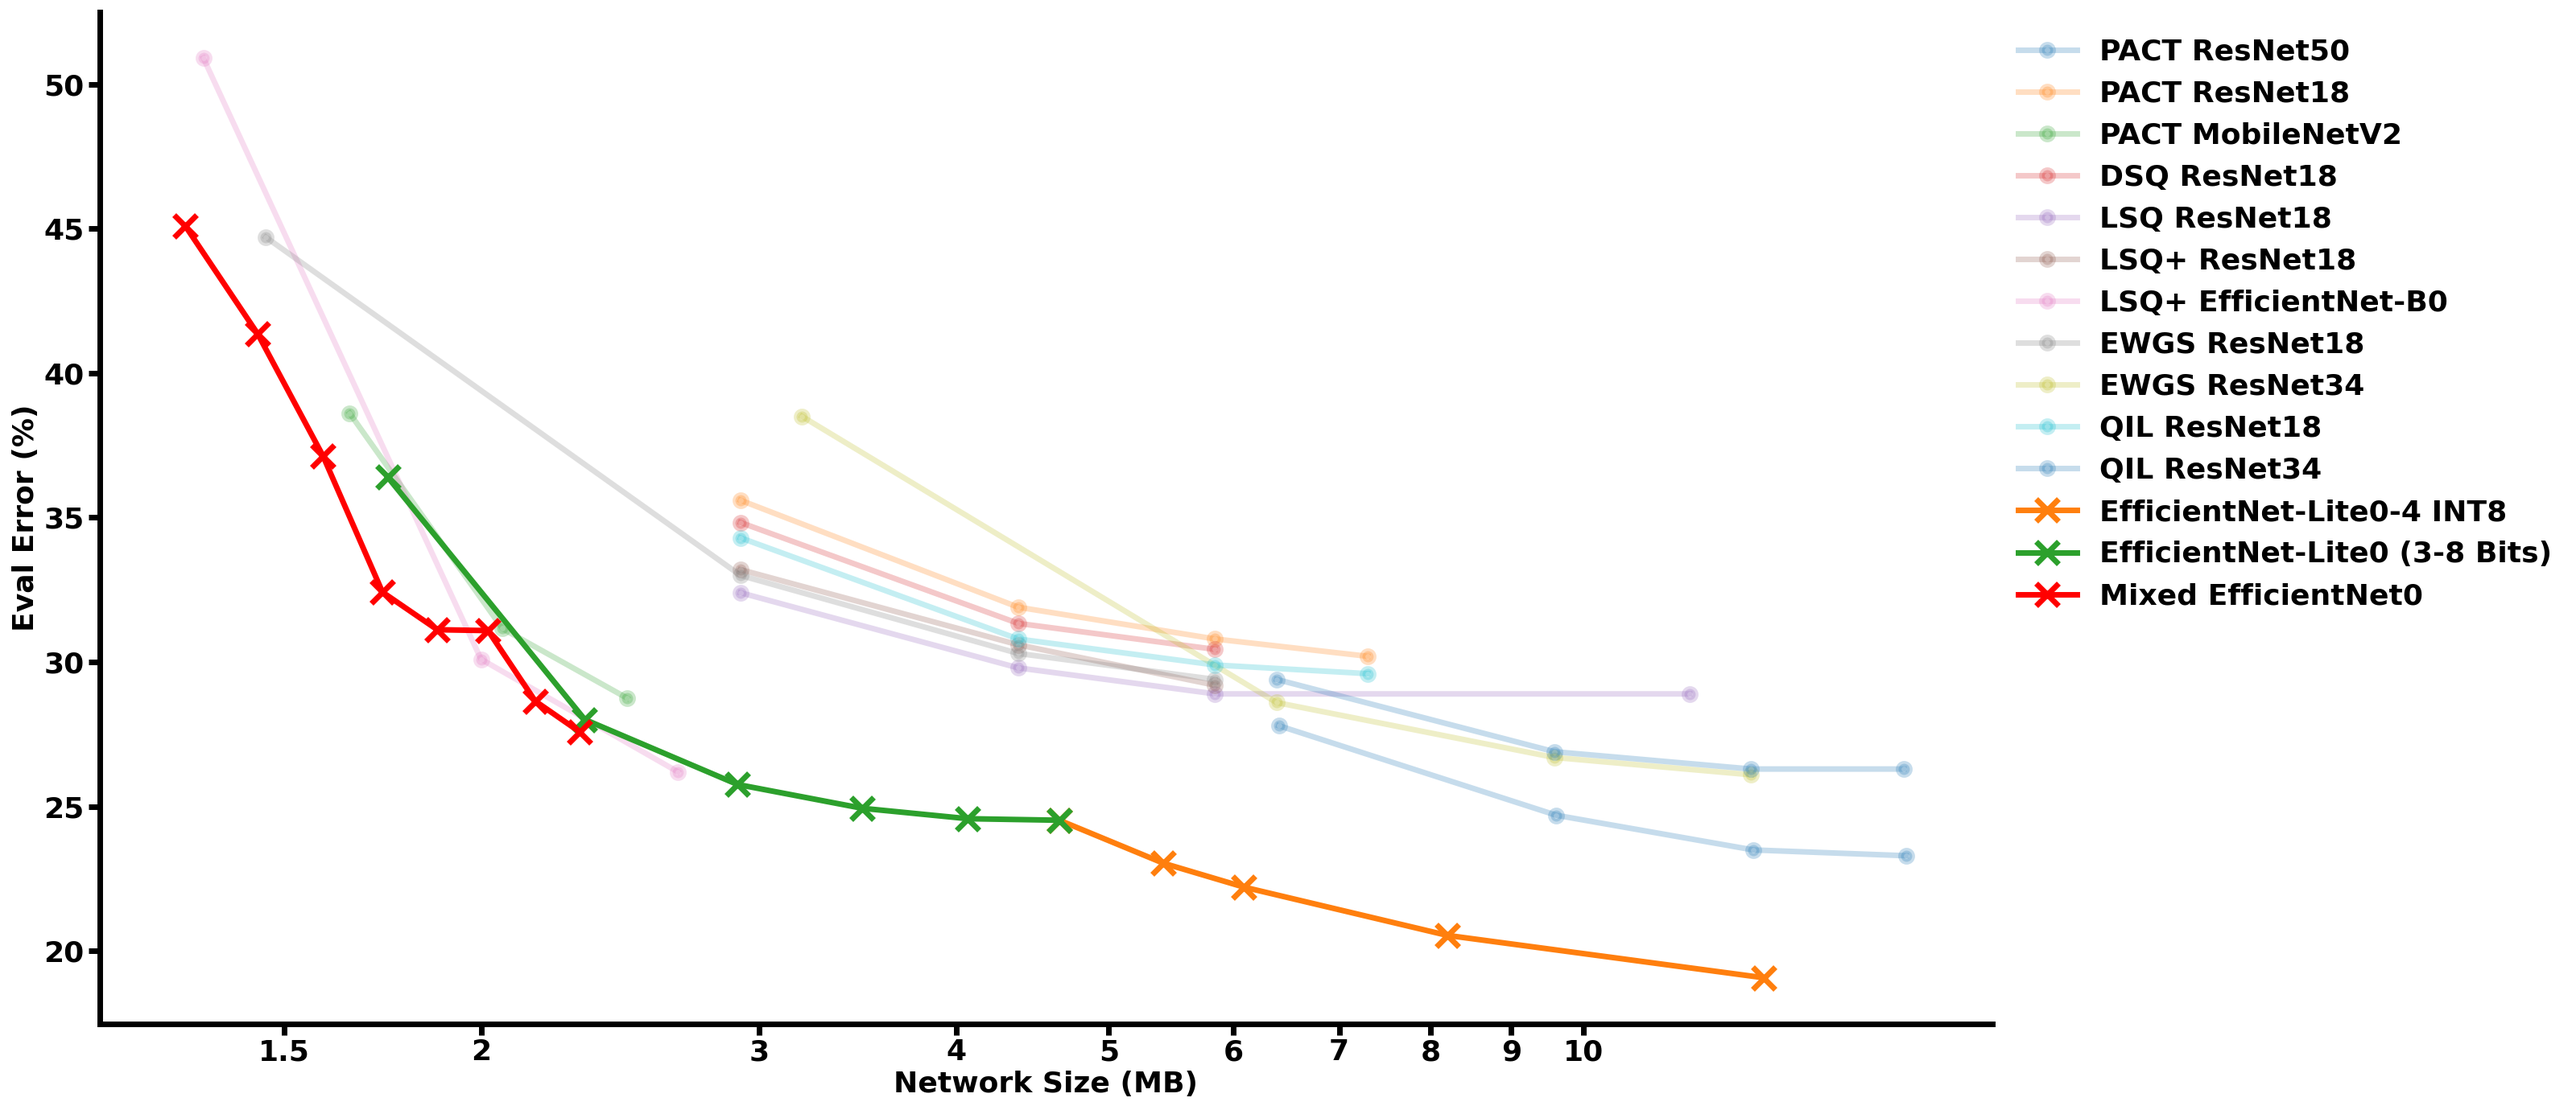
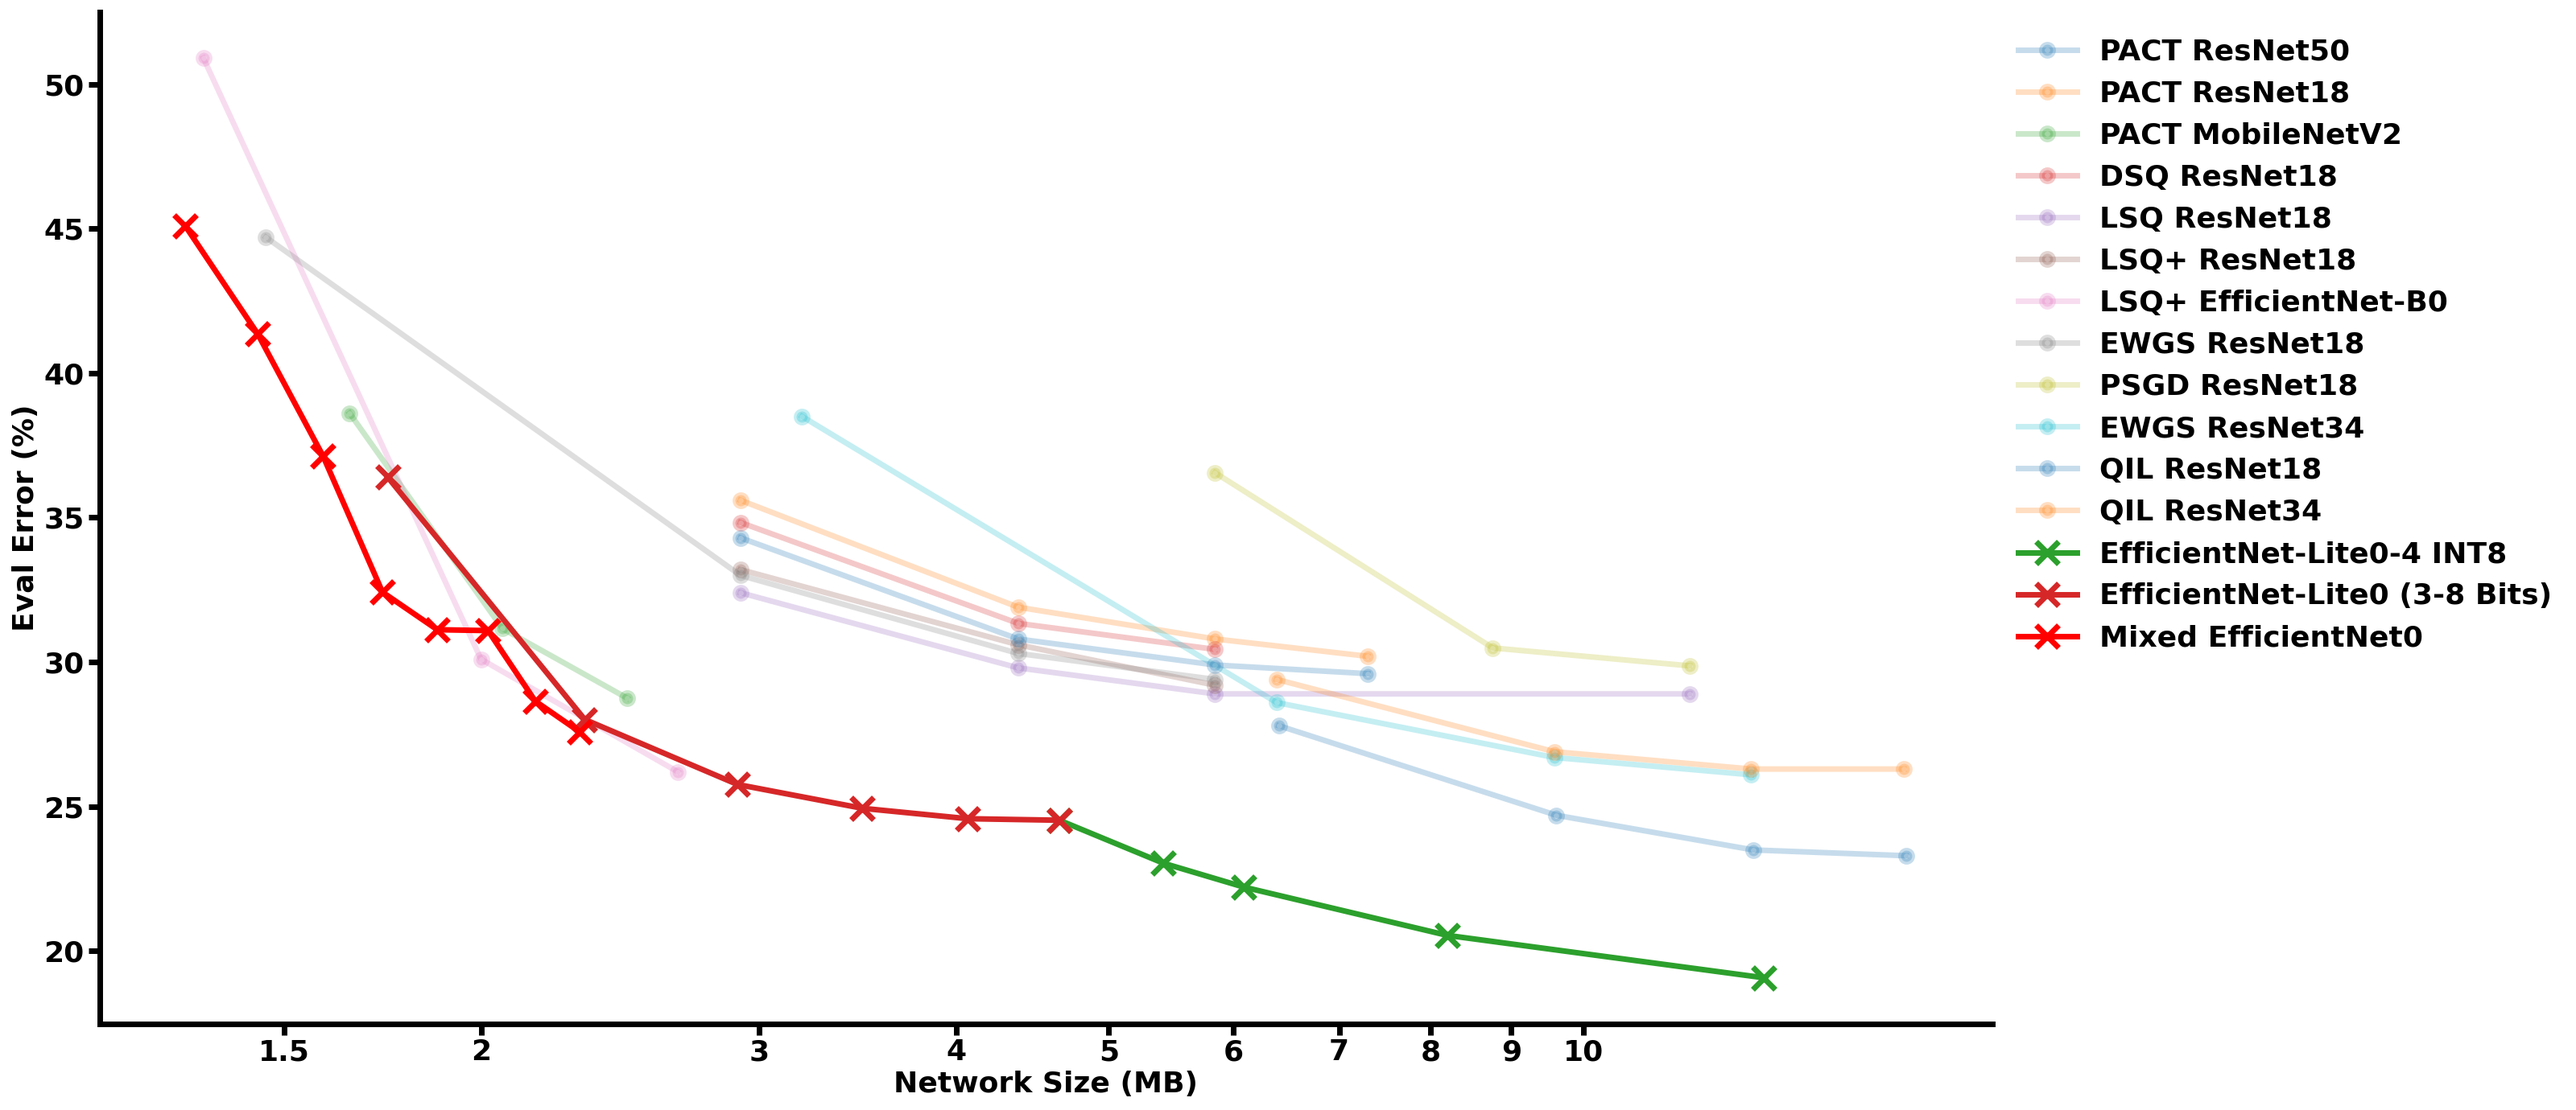
normal - new figure

diff --git a/examples/efficientnet/visualization.py b/examples/efficientnet/visualization.py
@@ -599,6 +599,15 @@ competitors = {
         'alpha': .25,
     },
 
+
+    'psgd_resnet18': {
+        # https://arxiv.org/pdf/2005.11035.pdf
+        'eval_err': np.array([1 - 0.7013, 1 - 0.6951, 1 - 0.6345]) * 100,
+        'size_mb': np.array([8, 6, 4]) * 11679912 / 8_000_000,
+        'name': 'PSGD ResNet18',
+        'alpha': .25,
+    },
+
     'ewgs_resnet34': {
         # https://arxiv.org/abs/2104.00903
         'eval_err': np.array([1 - 0.615, 1 - 0.714, 1 - 0.733,
